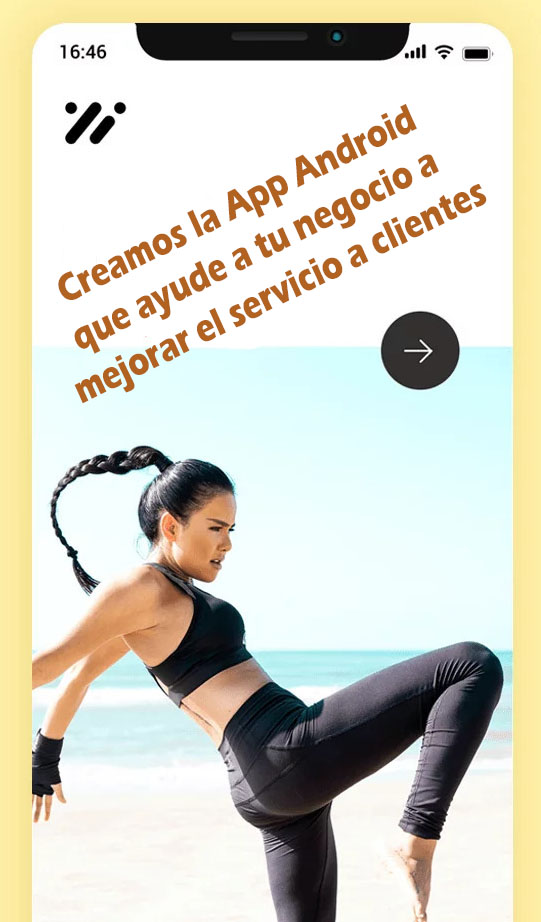
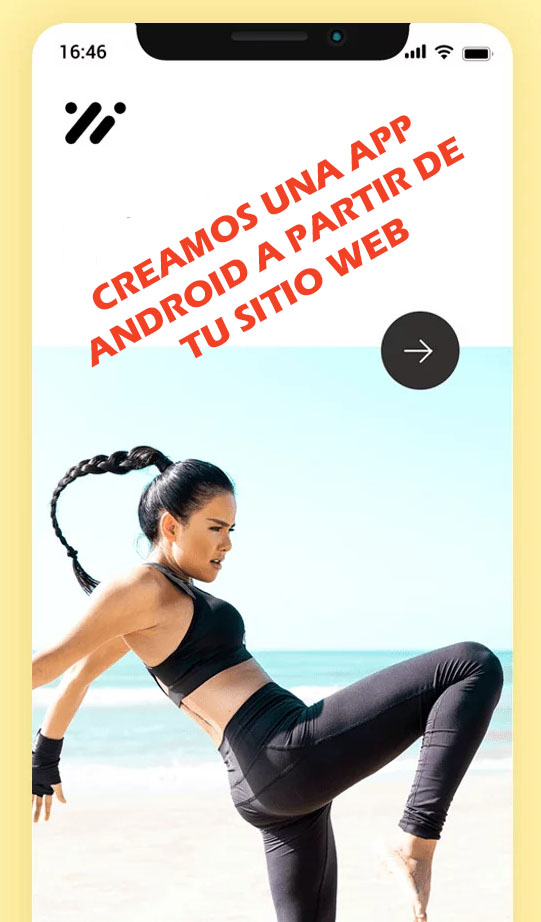
Add files via upload

Changed region(s): [[0.0887, 0.0911, 0.9168, 0.4555]]

diff --git a/index.html b/index.html
@@ -3,7 +3,7 @@
 <head>
     <meta charset="UTF-8">
     <meta name="viewport" content="width=device-width, initial-scale=1.0">
-    <title>Android para todos | Creamos tu App Android</title>
+    <title>WebToApp | Convierte tu Sitio Web en App Android</title>
     <link rel="stylesheet" href="styles.css">
 </head>
 <body>
@@ -20,9 +20,8 @@
     <section class="hero">
         <div class="container">
             <div class="hero-content">
-                <h1 class="hero-title">Creamos la App Android de tu negocio.</h1>
-                <h1 class="hero-title">Por solo $650 pesos.</h1>
-                <p class="hero-subtitle">Moderniza tu negocio llevándolo al siguiente nivel con una aplicación Android completamente funcional y de alto rendimiento.</p>
+                <h1 class="hero-title">De Sitio Web a App Android</h1>
+                <p class="hero-subtitle">Transformamos tu sitio web existente en una aplicación Android completamente funcional y de alto rendimiento. Además, mantenimiento experto en WordPress para que tu sitio funcione perfectamente.</p>
             </div>
             <div class="hero-visual">
                 <img src="fotos/mobile-fitness.jpg" alt="Ejemplo Profesional de App Android" class="hero-app-image">
@@ -34,43 +33,28 @@
 <section class="showcase">
     <div class="container">
         <div class="showcase-content">
-            <h2 class="showcase-title">Impulsa Tu Negocio con una Aplicación Android</h2>   
-            <p class="showcase-subtitle">Llega a más clientes, fortalece tu marca y aumenta tus ventas las 24 horas del día, directamente desde su dispositivo móvil.</p>
+            <h2 class="showcase-title">No tienes una página web?</h2>   
+            <h2 class="showcase-title">Podemos hacer una para tí!</h2>
+            <p class="showcase-subtitle">Por $1,700.00 MXN crearemos una página tipo landing page vertical para tu negocio, dominio propio por 1 año incluido con valor de $250 pesos, y una aplicación Android. Ahora tendrás una página web y también una aplicación Android para tus clientes.</p>
+            
             <div class="showcase-image">
-                <img src="fotos/2cell.jpg" alt="Website to Android App Conversion" class="featured-app">
+                <img src="fotos/web-app-big.jpg" alt="Website to Android App Conversion" class="featured-app">
             </div>
+            
         </div>
     </div>
 </section>
-
-<!-- Showcase Section 2-->
-<section class="showcase">
-    <div class="container">
-        <div class="showcase-content">
-            <h2 class="showcase-title">¿Por qué tu negocio necesita una app?</h2>   
-            <p class="showcase-subtitle">Presencia Constante: Tu icono estará en el celular de tus clientes, recordándoles siempre de ti.</p>
-            <p class="showcase-subtitle">Fidelización: Notificaciones push con ofertas exclusivas para mantenerlos conectados.</p>
-            <p class="showcase-subtitle">Visibilidad: Destácate de la competencia y posiciona tu negocio como moderno e innovador.</p>
-            <p class="showcase-subtitle">Ventas Directas: Convierte el celular en un canal de ventas directo, sin intermediarios.</p>
-            <p class="showcase-subtitle">✅ Solicita tu App Hoy Mismo. Da el siguiente paso para el crecimiento digital de tu empresa. ¡Es más fácil de lo que crees!</p>
-            <div class="showcase-image">
-                <img src="fotos/taxiapp1.jpg" alt="Website to Android App Conversion" class="featured-app">
-            </div>
-        </div>
-    </div>
-</section>
-
 
     <!-- Services Section -->
     <section class="services">
         <div class="container">
             <div class="services-grid">
-                <!-- Servicio 1: Conversión a App Android -->
+                <!-- Servicio 3: Conversión a App Android -->
                 <div class="service-card">
                     <div class="service-icon">
                         🤖
                     </div>
-                    <h3>¿Y si ya tienes sitio web?, ¿Que tal una App Android?</h3>
+                    <h3>Si ya tienes sitio web, ¿Que tal una App Android?</h3>
                     
                     <!-- PRECIO APP -->
                     <div class="pricing-badge app-price">
@@ -92,16 +76,67 @@
                         <li>⏱ Entrega en 48 Horas</li>
                         <li>💫 Actualizacion de versiones de la app</li>
                     </ul>
-                    </p>
-                    </p>
-                    </p>
-                    <div class="showcase-image">
-                        <img src="fotos/web-app-big.jpg" alt="Website to Android App Conversion" class="featured-app">
-                    </div>
                 </div>
 
 
-                
+                <!-- Servicio 2: Diseño de página web -->
+                <div class="service-card">
+                    <div class="service-icon">
+                        🌐WWW
+                    </div>
+                    <h3>Diseño de página web</h3>
+                    
+                    <!-- PRECIO DE PÁGINA -->
+                    <div class="pricing-badge maintenance-price">
+                        <span class="price-main">$1,700 MXN</span>
+                        <span class="price-sub">Pago único</span>
+                    </div>
+                    
+                    <p>Creación de página web tipo landing page.</p>
+                    
+                    <div class="value-proposition">
+                        <strong>Con botón de Whatsapp, Google Maps, formulario de solicitud, pop up de ofertas,  Optimización para SEO y performance.</strong>
+                        <p>¡Pago único!</p>
+                    </div>
+                    
+                    <ul class="service-features">
+                        <li>🔄 Diseño responsivo, se vé bien tanto en pc, tablets y celulares.</li>
+                        <li>🌟 Vista profesional</li>
+                        <li>⏱ Entrega en 3 días</li>
+                        <li>🛡 Incluimos dominio x 1 año con valor de $250 pesos</li>
+                        <li>💵 Precio accesible</li>
+                    </ul>
+                </div>
+
+
+                <!-- Servicio 3: Mantenimiento WordPress -->
+                <div class="service-card">
+                    <div class="service-icon">
+                        🛠
+                    </div>
+                    <h3>Planes de Mantenimiento y Hospedaje de sitio web</h3>
+                    
+                    <!-- PRECIO MANTENIMIENTO -->
+                    <div class="pricing-badge maintenance-price">
+                        <span class="price-main">$300 MXN</span>
+                        <span class="price-sub">por mes</span>
+                    </div>
+                    
+                    <p>Mantenimiento y soporte completo para WordPress que garantiza que tu sitio permanezca seguro, actualizado y funcionando al máximo.</p>
+                    
+                    <div class="value-proposition">
+                        <strong>Hospedaje mensual incluido, Mantenimiento de página y mantenimiento de Aplicación.</strong>
+                        <p>¡Por $300 MXN al mes.!</p>
+                    </div>
+                    
+                    <ul class="service-features">
+                        <li>🔄 Actualizacion de plugins y Parches de Seguridad</li>
+                        <li>💾 Copias de Seguridad semanal</li>
+                        <li>⚡ Optimización de Rendimiento</li>
+                        <li>🛡 Monitoreo de Seguridad</li>
+                        <li>🎯 Restablecimiento en caso de crash de tu sitio</li>
+                    </ul>
+                </div>
             </div>
         </div>
     </section>
@@ -159,9 +194,9 @@
     <section class="demo-section">
         <div class="container">
             <div class="demo-content">
-                <h2>Solicita una Aplicación Android de tu negocio por $650 pesos o la conversión de tu página web actual a App Android.</h2>
+                <h2>Solicita una página web tipo landing o un DEMO GRATIS de tu Sitio Web convertida en App Android</h2>
                 <p>¿Tienes curiosidad de cómo se vería y funcionaría tu sitio web como una aplicación Android? Llena el formulario y te enviaremos un demo personalizado mostrando la transformación.</p>
-                <p>El demo de tu sitio web convertido NO tiene costo alguno.</p>
+                <p>El demo NO tiene costo alguno.</p>
             </div>
         </div>
     </section>
@@ -170,7 +205,7 @@
     <section class="form-section">
         <div class="container">
             <div class="form-wrapper">
-                <h2>Pide tu App Android por $650.00</h2>
+                <h2>Pide tu Demo Gratis de App Android</h2>
                 <form id="demoForm" class="contact-form" action="https://formspree.io/f/mldoqvyq" method="POST">
                     <div class="form-group">
                         <label for="fullName">Nombre Completo *</label>
@@ -190,8 +225,10 @@
                     <div class="form-group">
                         <label for="service">Servicio de Interés</label>
                         <select id="service" name="service">
-                            <option value="android">Quiero una aplicación Android de mi negocio</option>
-                            <option value="wordpress">Quiero convertir mi página actual en una app Android</option>
+                            <option value="android">Obtener una app Android a partir de sitio web</option>
+                            <option value="wordpress">Quiero una página web para mi negocio</option>
+                            <option value="wordpress">Mantenimiento WordPress</option>
+                            <option value="both">Varios Servicios</option>
                         </select>
                     </div>
                     
@@ -246,8 +283,8 @@
 <!-- Sección links de muestras-->
 <section class="location-section">
     <div class="container">
-        <h2>Descarga algunas aplicaciones de muestra.</h2>
-        <h3>Visita el <a href="listado.html">siguiente listado.</a></h3>    
+        <h2>Quieres ver algunos demos de páginas?</h2>
+        Visita <a href="listado.html">siguiente listado.</a>
     </div>
 </section>
 

diff --git a/listado.html b/listado.html
@@ -44,17 +44,18 @@
 </head>
 <body>
     <div class="container">
-        <h1>🎉 Te invitamos a descargar algunos demos de aplicaciones ya creadas.</h1>
+        <h1>🎉 Te invitamos a ver algunas páginas de muestra.</h1>
+        <p>Puedes descargar también su App para probarla.</p>
         <br><br>
-        <a href="https://dl.dropbox.com/scl/fi/9s853khkl5kytw14kfkpu/golden-dragon.apk?rlkey=huy9eudn01l1icnx514hskllk&st=suvsyafq&dl=1"><h1>🎉 Rest. Golden Dragon</h1></a>
+        <a href="https://centersyspro-ai.github.io/dragondorado/"><h1>🎉 Comida china 1</h1></a>
         <!-- <a href="index.html" class="btn">descargar App</a> -->
-        <a href="https://dl.dropbox.com/scl/fi/pqgogr9ld2zyt8o9stzxv/J-J-car-wash.apk?rlkey=bgvdro3xptla7h9siokfrzqr8&st=aj6j1fte&dl=1"><h1>🎉 J&J Car Wash</h1></a>
+        <a href="https://centersyspro-ai.github.io/goldendragon/"><h1>🎉 Comida china 2</h1></a>
         <!-- <a href="index.html" class="btn">descargar App</a> -->
-        <a href="https://dl.dropbox.com/scl/fi/iv7jfdxfc15r3oa4ywxa3/peluqueria-para-perros.apk?rlkey=a15s4yc10vhq1yd93mo2a5xsq&st=o8azgupa&dl=1"><h1>🎉 Kolitas Estética Canina</h1></a>
+        <a href="https://centersyspro-ai.github.io/kolitas/"><h1>🎉 Kolitas Estética Canina</h1></a>
         <!-- <a href="index.html" class="btn">descargar App</a> -->
-        <a href="https://dl.dropbox.com/scl/fi/o844lcnu3p0frc8f5spmp/car-rental.apk?rlkey=urjl5bu75favwsc0n3ipdvsmn&st=q21frncq&dl=1    "><h1>🎉 Car Rental</h1></a>
+        <a href="https://centersyspro-ai.github.io/jjcarwash/"><h1>🎉 J&J Car Wash</h1></a>
         <!-- <a href="index.html" class="btn">descargar App</a> -->
-        <a href="https://dl.dropbox.com/scl/fi/n3ecp3o21hpotiqm20zp7/veterinaria-mundo-animal.apk?rlkey=uua4ycv79lxt4kk0kem8t1bte&st=hos7ry2a&dl=1"><h1>🎉 Veterinaria Mundo Animal</h1></a>
+        <a href="https://centersyspro-ai.github.io/mundoanimal/"><h1>🎉 Veterinaria Mundo Animal</h1></a>
         <!-- <a href="index.html" class="btn">descargar App</a> -->
       
         

diff --git a/styles.css b/styles.css
@@ -366,8 +366,8 @@ body {
 }
 
 .featured-app {
-    width: auto%;
-    height: 600px;
+    width: 100%;
+    height: auto;
     border-radius: 15px;
     box-shadow: 0 20px 40px rgba(0,0,0,0.15);
     transition: transform 0.3s ease;
